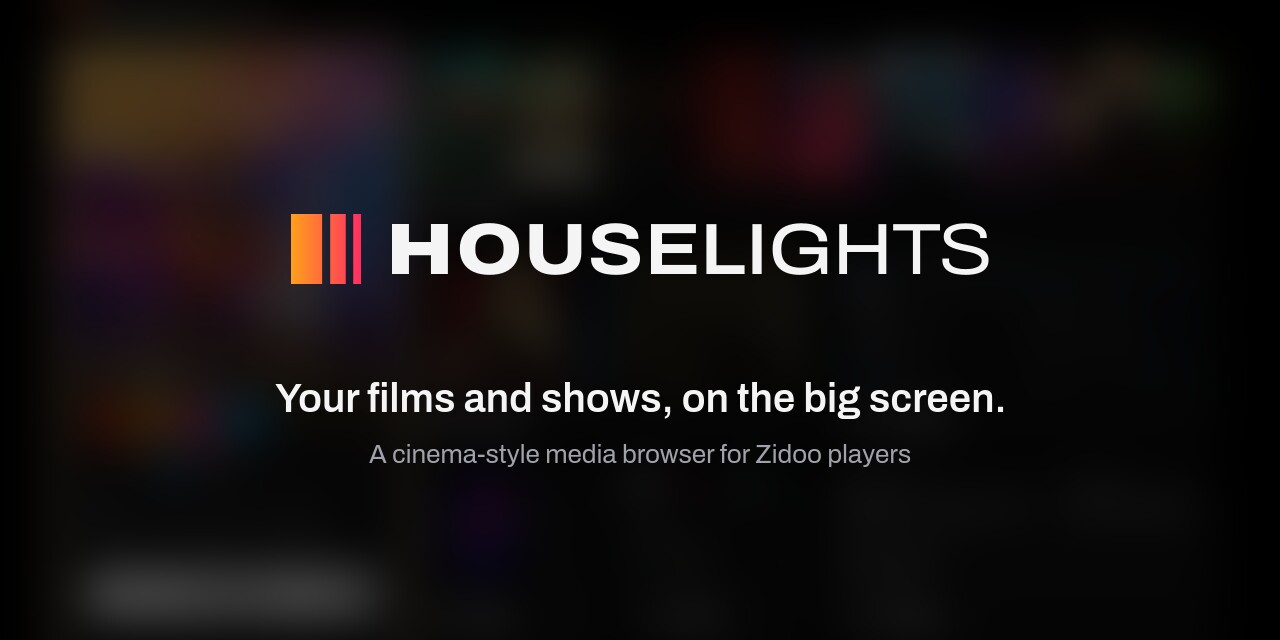
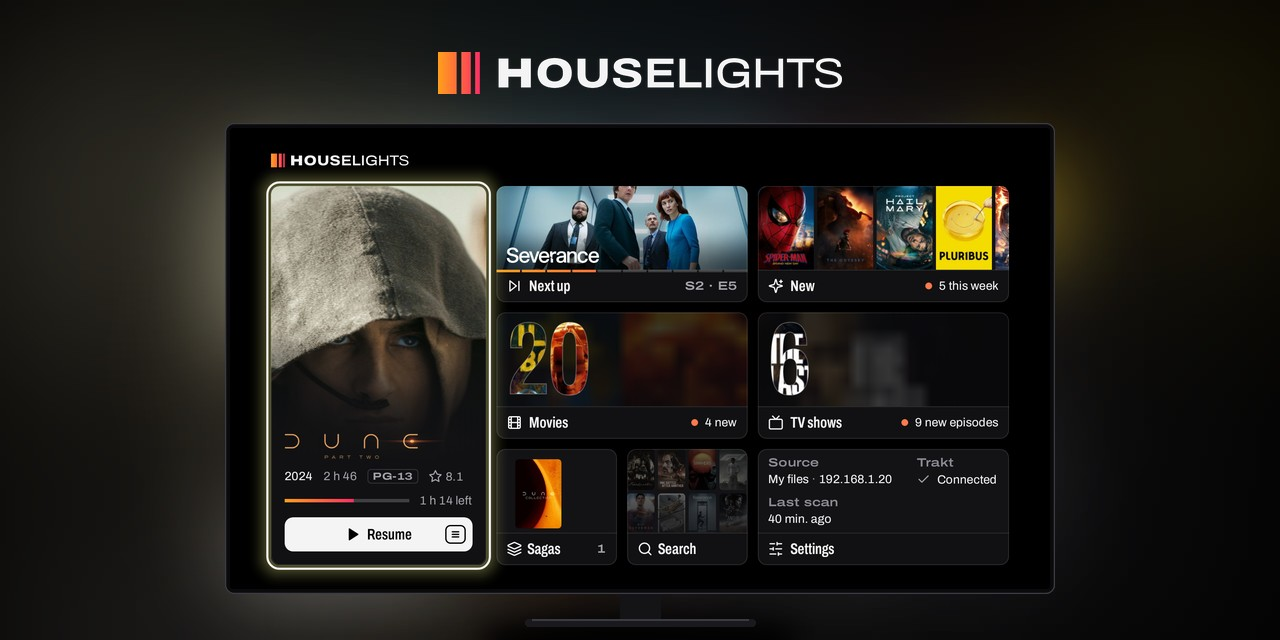
The README now opens on home on a TV in a dark room lit by its own picture, shows at the head of Features the animation from home to the film whose Play dims the room, and its screenshots on cards two by two, each pair under one caption, all rendered by the app in English over recent films and shows

diff --git a/tools/readme-images/compose.py b/tools/readme-images/compose.py
@@ -28,8 +28,9 @@ ROOM = (0, 0, 0)
 # Supersampling for the curves: masks are drawn at this scale, then reduced.
 SS = 4
 
-# The screens the README shows, framed as cards, by the still each comes from.
-CARDS = ["film", "show", "saga", "library", "watch", "settings", "to-identify", "identify", "update"]
+# The screens the README shows, framed as cards, by the still each comes from; the captures hold one more, to-identify,
+# for whoever needs it.
+CARDS = ["film", "show", "saga", "library", "watch", "settings", "identify", "update"]
 
 # The screen inside a card, and around it the room the shadow takes.
 CARD_WIDTH = 1200

diff --git a/README.md b/README.md
@@ -22,7 +22,9 @@
   <a href="https://ko-fi.com/lchamp_lab">Support</a>
 </p>
 
-![Home: a grid of doors, a film not seen yet in the case beside the latest titles, the films and shows counted in their posters, the sagas, search and settings](docs/images/home.jpg)
+<p align="center">
+  <img src="docs/images/hero.webp" width="100%" alt="Houselights' home on a TV in a dark room lit by its picture: the case resumes Dune: Part Two, 1 h 14 left, beside the next episode of Severance and the five titles new this week, the 20 films and 6 shows counted in their posters, the sagas, search, and the settings saying the library's source, Trakt connected and the last scan">
+</p>
 
 > **Beta.** Made for Zidoo players (Android 9 with Zidoo's launcher), tested on a Z1000 Pro: reports from other
 > models are welcome in the [issues](https://github.com/lchamp-lab/houselights/issues). Not affiliated with Zidoo,
@@ -34,6 +36,11 @@ lus par le **lecteur natif Zidoo** (HDR10, HDR10+, Dolby Vision, passthrough aud
 gratuite, l’application est entièrement en français. [Installer](#install)
 
 ## Features
+
+<p align="center">
+  <img src="docs/images/tour.webp" width="100%" alt="Animation: the lights come up on home; focus goes to the titles new this week and To watch opens; focus runs from Spider-Man: Brand New Day, The Odyssey and Project Hail Mary to Avatar: Fire and Ash, the backdrop and the poster's glow following; OK opens the film's page, Dolby Vision, HDR10+ and Dolby TrueHD Atmos 7.1 on its case back, and Play dims the room before the Zidoo player starts">
+  <br><sub>From home to the film: focus lights each title, and Play dims the room before the Zidoo player takes over.</sub>
+</p>
 
 - **The Zidoo player plays.** Files open directly in it (`smb://`, `nfs://` or HTTP), with everything it
   supports. Progress is read from the player while it plays, so resume points stay in sync.
@@ -142,20 +149,29 @@ My files reads a title from its folder's and file's names, as Plex, Jellyfin, Ko
 
 ## Screenshots
 
-<table>
-  <tr>
-    <td width="50%"><img src="docs/images/film.jpg" alt="A film's page"><br><sub>A film's page: its video and audio on the case back, read from the file itself.</sub></td>
-    <td width="50%"><img src="docs/images/show.jpg" alt="A show's episodes and cast"><br><sub>A show's episodes and cast.</sub></td>
-  </tr>
-  <tr>
-    <td width="50%"><img src="docs/images/saga.jpg" alt="A saga's page"><br><sub>A saga: the films you own among its films, resumed where you left off.</sub></td>
-    <td width="50%"><img src="docs/images/library.jpg" alt="The Movies wall"><br><sub>The Movies wall, a saga among the films, lit by the focused poster.</sub></td>
-  </tr>
-  <tr>
-    <td width="50%"><img src="docs/images/watch.jpg" alt="To watch"><br><sub>To watch, one door from home: its rows under the title in focus.</sub></td>
-    <td width="50%"><img src="docs/images/settings.jpg" alt="Settings, Display"><br><sub>Settings > Display: the interface's language and the text size.</sub></td>
-  </tr>
-</table>
+<p align="center">
+  <img src="docs/images/film.webp" width="49%" alt="Avatar: Fire and Ash's page: its logo over its backdrop, 2025, 3 h 17, PG-13, 7.6; Ultra HD, Dolby Vision, HDR10+, HEVC, 23.976 fps and Dolby TrueHD Atmos 7.1, 5,318 kbps, read from the file; its tagline, overview and credits, and Play, 3 h 17, in focus">
+  <img src="docs/images/show.webp" width="49%" alt="Severance's season 2: episodes 3 and 4 watched, episode 5, Trojan's Horse, 52 min, in focus, its overview under the row, then the cast's photos">
+  <br><sub><b>A film's page</b>, its picture and sound read from the file itself · <b>A show</b>, on its next episode</sub>
+</p>
+
+<p align="center">
+  <img src="docs/images/saga.webp" width="49%" alt="The Dune Collection's page: 2021 – 2024, 2 films, 8.0, Science Fiction and Adventure, its overview, and Resume Dune: Part Two, 1 h 14 left, in focus, over a desert at sunset">
+  <img src="docs/images/library.webp" width="49%" alt="The Movies wall: 18 titles and a saga, sorted by title, the Dune Collection among the films, Avatar: Fire and Ash in focus and its colours lighting the wall, films watched checked and new ones dotted">
+  <br><sub><b>A saga</b>, resumed where you left off · <b>The Movies wall</b>, lit by the poster in focus</sub>
+</p>
+
+<p align="center">
+  <img src="docs/images/watch.webp" width="49%" alt="To watch: Spider-Man: Brand New Day's logo, 2026, 2 h 20, PG-13, 8.5 and overview over its backdrop, above the recently added movies, 4 new, the first in focus">
+  <img src="docs/images/settings.webp" width="49%" alt="Settings, Display: the output set by the player, the interface rendered in Full HD, 1920 × 1080, the interface's language, English, and the text size, Standard, in focus">
+  <br><sub><b>To watch</b>, one door from home · <b>Settings › Display</b>: the language and the text size</sub>
+</p>
+
+<p align="center">
+  <img src="docs/images/identify.webp" width="49%" alt="Identify on Little Women.mkv, several possible titles: TMDB's suggestions at once, Little Women (2019) in focus above Little Women (1994), with Skip and Leave as is beside them">
+  <img src="docs/images/update.webp" width="49%" alt="The update sheet over home: a new version is available, 0.4.1, what is new in three lines, Update, 6.4 MB from github.com, in focus, and Later">
+  <br><sub><b>Identify</b>, TMDB's suggestions at once · <b>An update</b>, found, checked and installed from the app</sub>
+</p>
 
 ## Install
 
@@ -317,4 +333,5 @@ any later version ([LICENSE](LICENSE), `GPL-3.0-or-later`).
 - Icons are Lucide's (https://lucide.dev), under the ISC license, those derived from Feather under the MIT
   license ([third_party/lucide/LICENSE](third_party/lucide/LICENSE)).
 - This product uses the TMDB API but is not endorsed or certified by TMDB. The TMDB logo is a trademark of
-  TMDB, shown under its attribution guidelines, and is not covered by the GPL.
+  TMDB, shown under its attribution guidelines, and is not covered by the GPL. The screenshots show the films' and
+  shows' texts and pictures as TMDB gives them; they belong to their owners and are not covered by the GPL either.

diff --git a/CONTRIBUTING.md b/CONTRIBUTING.md
@@ -33,6 +33,7 @@ app/src/main/java/app/houselights/
   ui/            Compose for TV screens
 baselineprofile/ baseline profile generator and benchmarks, run on a device
 tools/test-servers/ a Samba and an NFS NAS and a Jellyfin server in Docker, on sample files (its README)
+tools/readme-images/ frames the README's images, which a test shoots (Releases, README's images)
 ```
 
 ## Checks
@@ -157,6 +158,32 @@ approval: `HOUSELIGHTS_KEYSTORE` (`base64 -w0 houselights-release.jks`) and `HOU
 Repository secrets, optional: `TMDB_API_KEY` (a project key), `TRAKT_CLIENT_ID` (the project's Trakt app),
 `TRAKT_CLIENT_SECRET` (only for a Trakt app that has one) and `TRAKT_REDIRECT_URI` (only for one declared with
 another URI); CI reads the key and the client ID and secret too. `v*` tags can be neither moved nor deleted.
+
+### README's images
+
+The README's images are the app's own screens: a test shoots them (`app/src/test/java/app/houselights/readme`), in
+English at 1920 × 1080, over a library of recent films and shows that the app's scanner names from TMDB, then
+`tools/readme-images/compose.py` frames them: home on a TV lit by its own picture (`hero.webp`, and
+`social-preview.jpg`, GitHub's link preview), each screen on a card, and the animation from home to Play
+(`tour.webp`). Make them again before a release, once its screens are final:
+
+1. Push the branch whose screens they show as `readme-images/<anything>` (`git push origin HEAD:readme-images/0.4.0`),
+   or, once the workflow is on `main`, Actions, README images, Run workflow on that branch.
+2. Download the run's artifact « readme-images » and put its files in `docs/images`, over the old ones.
+3. Look at each and at the README's alt texts, which say what each shows, then commit them; upload
+   `social-preview.jpg` in the repository's Settings, General, Social preview.
+
+The films and shows are listed by TMDB id in `ReadmeTitles`, with their files' picture and sound and what was
+watched; their texts and pictures are TMDB's, read at each run (the `TMDB_API_KEY` secret) and never committed but
+in the images. A title TMDB does not name by its id fails the run, which says what the library holds. The artifact
+« readme-captures » keeps the unframed shots (« To identify »'s too, which the README does not show), the frames and
+what TMDB named (`library.txt`), to frame them again with `--only` (hero, social, cards, tour). On a machine with a
+TMDB key in `local.properties` and Pillow 11 (`tools/readme-images/requirements.txt`):
+
+```sh
+HOUSELIGHTS_README=/tmp/readme ./gradlew :app:testReleaseUnitTest --tests 'app.houselights.readme.*'
+python3 -I tools/readme-images/compose.py /tmp/readme docs/images
+```
 
 ## Performance
 
